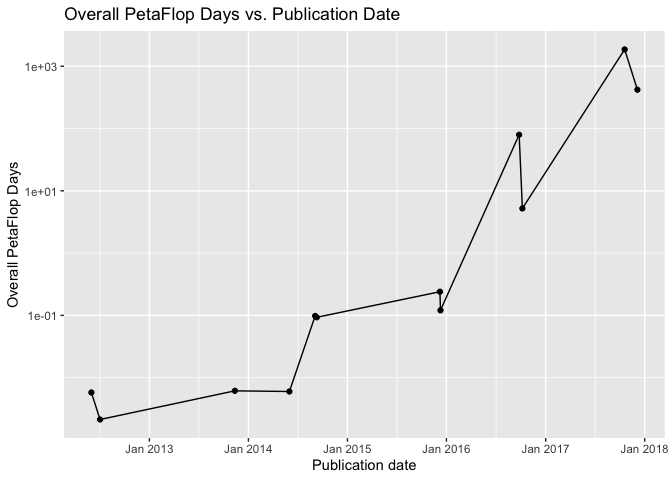
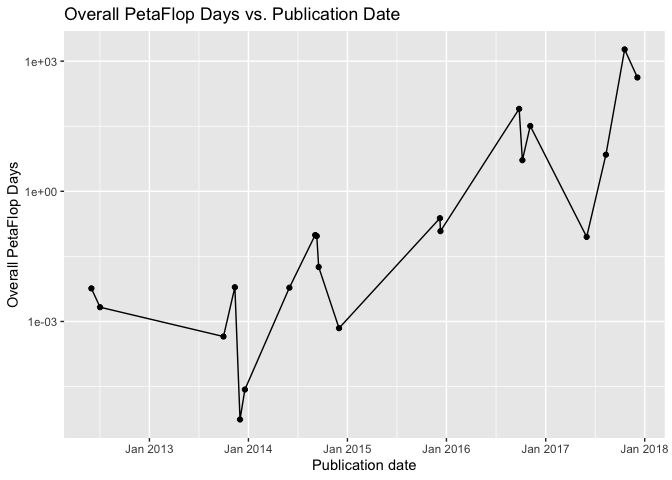
reknit compute

diff --git a/output/open-ai/compute.md b/output/open-ai/compute.md
@@ -1,6 +1,6 @@
 Compute
 ================
-2020-05-31
+2020-12-04
 
   - [Overall PetaFlop vs. publication
     date](#overall-petaflop-vs.-publication-date)
@@ -12,9 +12,10 @@ Compute
 library(tidyverse)
 
 # Parameters
-file_compute <- here::here("data/open-ai/compute.csv")
-
-file_compute_sota <- here::here("data/open-ai/compute_sota.csv")
+file_compute <- here::here("data-raw/compute.csv")
+file_compute_sota <- here::here("data-raw/compute_sota.csv")
+file_penn_treebank <- here::here("data-raw/penn_treebank.csv")
+file_imagenet <- here::here("data-raw/imagenet.csv")
 #===============================================================================
 
 compute <-
@@ -23,17 +24,31 @@ compute <-
 
 compute_sota <-
   file_compute_sota %>% 
-  read_csv()
+  read_csv() %>% 
+  rename(compute = overall_petaflop_days)
+
+penn_treebank <-
+  file_penn_treebank %>% 
+  read_csv() %>% 
+  select(date, compute = `compute (pfs)`) %>% 
+  drop_na(compute)
+
+imagenet <-
+  file_imagenet %>% 
+  read_csv() %>% 
+  mutate(date = lubridate::make_date(year = year)) %>% 
+  select(date, compute) %>% 
+  drop_na(compute)
 ```
 
 ## Overall PetaFlop vs. publication date
 
 ``` r
 compute %>% 
-  ggplot(aes(date, overall_petaflop_days)) +
+  ggplot(aes(publication_date, overall_peta_flop_days)) +
   geom_point() +
   geom_line() +
-  scale_x_datetime(date_breaks = "1 year", date_labels = "%b %Y") +
+  scale_x_date(date_breaks = "1 year", date_labels = "%b %Y") +
   scale_y_log10() +
   labs(
     x = "Publication date",
@@ -49,7 +64,10 @@ compute %>%
 
 ``` r
 compute_sota %>% 
-  ggplot(aes(date, overall_petaflop_days)) +
+  mutate(group = "OpenAI") %>% 
+  bind_rows(penn_treebank %>% mutate(group = "Penn Treebank")) %>% 
+  bind_rows(imagenet %>% mutate(group = "ImageNet")) %>% 
+  ggplot(aes(date, compute, color = group)) +
   geom_point() +
   geom_smooth(
     size = 0.5,
@@ -57,16 +75,17 @@ compute_sota %>%
     formula = 'y ~ x',
     se = FALSE
   ) +
-  scale_x_date(date_breaks = "1 year", date_labels = "%b %Y") +
+  scale_x_date(date_breaks = "1 year", date_labels = "%Y") +
   scale_y_log10(
     breaks = c(1e-4, 1e-2, 1, 100),
     labels = c("0.0001", "0.01", "1", "100")
   ) +
   labs(
-    x = "Publication date",
+    x = "Date",
     y = "Overall PetaFlop Days",
     title = "Compute used to power SOTA models",
-    subtitle = "An exponential increase over the past decade"
+    subtitle = "An exponential increase over the past decade",
+    color = NULL
   )
 ```
 
